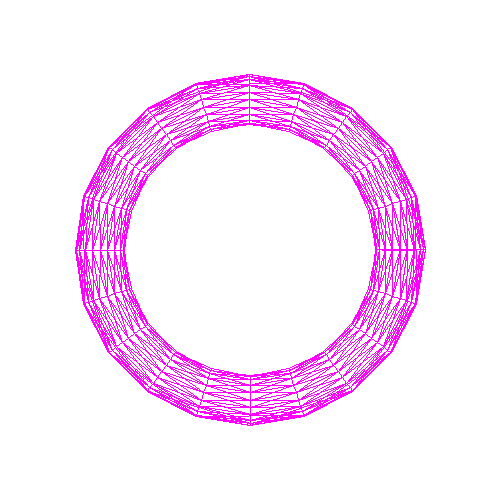
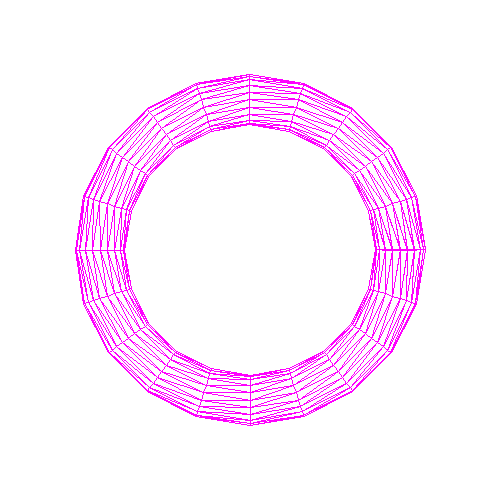
test

diff --git a/05-polygon/draw.c b/05-polygon/draw.c
@@ -147,7 +147,7 @@ void add_sphere( struct matrix * points,
 	index4 = index4%temp->lastcol;
       }
       */
-      add_polygon(points,temp->m[0][index],temp->m[1][index],temp->m[2][index],temp->m[0][index4],temp->m[1][index4],temp->m[2][index4],temp->m[0][index2],temp->m[1][index2],temp->m[2][index2]);
+      add_polygon(points,temp->m[0][index],temp->m[1][index],temp->m[2][index],temp->m[0][index2],temp->m[1][index2],temp->m[2][index2],temp->m[0][index3],temp->m[1][index3],temp->m[2][index3]);
       add_polygon(points,temp->m[0][index],temp->m[1][index],temp->m[2][index],temp->m[0][index3],temp->m[1][index3],temp->m[2][index3],temp->m[0][index4],temp->m[1][index4],temp->m[2][index4]);
       
     }//end points only
@@ -245,9 +245,9 @@ void add_torus( struct matrix * points,
       int index3 = (index + num_steps)%temp->lastcol;
       int index4 = (index + num_steps + 1)%temp->lastcol;
       
-      add_polygon(points,temp->m[0][index],temp->m[1][index],temp->m[2][index],temp->m[0][index4],temp->m[1][index4],temp->m[2][index4],temp->m[0][index2],temp->m[1][index2],temp->m[2][index2]);
+      add_polygon(points,temp->m[0][index],temp->m[1][index],temp->m[2][index],temp->m[0][index2],temp->m[1][index2],temp->m[2][index2],temp->m[0][index3],temp->m[1][index3],temp->m[2][index3]);
       
-      add_polygon(points,temp->m[0][index],temp->m[1][index],temp->m[2][index],temp->m[0][index4],temp->m[1][index4],temp->m[2][index4],temp->m[0][index3],temp->m[1][index3],temp->m[2][index3]);
+      add_polygon(points,temp->m[0][index],temp->m[1][index],temp->m[2][index],temp->m[0][index3],temp->m[1][index3],temp->m[2][index3],temp->m[0][index4],temp->m[1][index4],temp->m[2][index4]);
       
     }//end points only
 }
